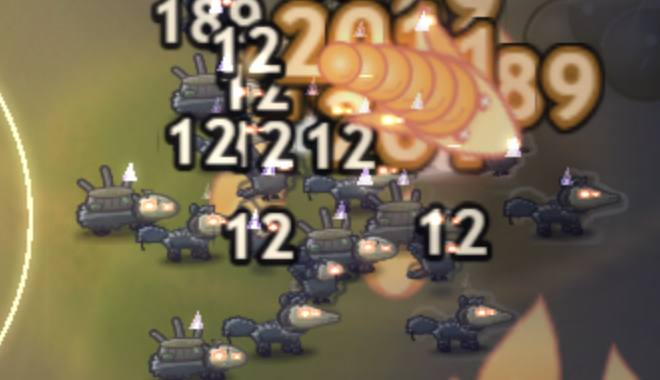
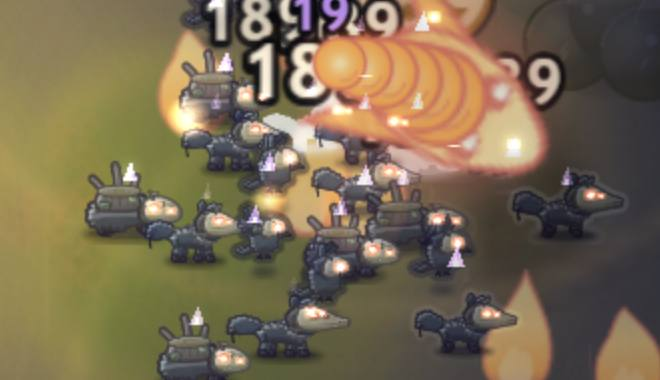
DM5: enlarge Wyrm head (1.4x) and body, clearer eyes (art only)

diff --git a/src/gfx/meteorfx.js b/src/gfx/meteorfx.js
@@ -111,7 +111,7 @@ export function bakeAtlas(c) { // c = a 2D context 288 x 208
   c.beginPath(); c.moveTo(x + 7, y + 20); c.bezierCurveTo(x + 7, y + 8, x + 24, y + 6, x + 36, y + 13); c.bezierCurveTo(x + 45, y + 17, x + 45, y + 23, x + 36, y + 27); c.bezierCurveTo(x + 24, y + 34, x + 7, y + 32, x + 7, y + 20); c.closePath();
   const hg = c.createLinearGradient(x + 7, y, x + 45, y); hg.addColorStop(0, 'rgba(255,200,120,1)'); hg.addColorStop(0.55, 'rgba(255,226,160,1)'); hg.addColorStop(1, 'rgba(255,241,194,1)');
   c.fillStyle = hg; c.fill(); c.strokeStyle = 'rgba(224,122,107,0.9)'; c.lineWidth = 1.4; c.stroke();
-  for (const sg of [-1, 1]) { c.fillStyle = 'rgba(224,122,107,0.95)'; c.beginPath(); c.arc(x + 29, y + 20 + sg * 5, 2.4, 0, 6.2832); c.fill(); c.fillStyle = 'rgba(255,255,240,1)'; c.beginPath(); c.arc(x + 29.6, y + 19.4 + sg * 5, 1.1, 0, 6.2832); c.fill(); }
+  for (const sg of [-1, 1]) { c.fillStyle = 'rgba(224,122,107,0.95)'; c.beginPath(); c.arc(x + 29, y + 20 + sg * 5.5, 3.3, 0, 6.2832); c.fill(); c.fillStyle = 'rgba(255,255,240,1)'; c.beginPath(); c.arc(x + 30, y + 19.2 + sg * 5.5, 1.6, 0, 6.2832); c.fill(); }
   [x, y] = at('bmark'); // DM6 Cinder Brand mark: a small gold ember-drop with a rose rim and a pale core (one clear glyph, readable at 640x360)
   c.beginPath(); c.moveTo(x + 8, y + 1); c.quadraticCurveTo(x + 8.6, y + 7.4, x + 15, y + 8); c.quadraticCurveTo(x + 8.6, y + 8.6, x + 8, y + 15); c.quadraticCurveTo(x + 7.4, y + 8.6, x + 1, y + 8); c.quadraticCurveTo(x + 7.4, y + 7.4, x + 8, y + 1); c.closePath(); // a four-pointed ember star (not a teardrop, so it never reads as a ground flame tongue)
   c.fillStyle = rg(c, x + 8, y + 8, 7, [[0, 'rgba(255,255,236,1)'], [0.5, 'rgba(255,220,140,1)'], [1, 'rgba(255,179,92,1)']]); c.fill(); c.strokeStyle = 'rgba(224,122,107,0.95)'; c.lineWidth = 1.1; c.stroke();
@@ -222,12 +222,12 @@ export class MeteorLayer {
         if (sx < c.vx0 - 40 || sx > c.vx1 + 40 || sy < c.vy0 - 40 || sy > c.vy1 + 40) continue;
         const sc = i === 0 ? 1 : 0.8 - 0.4 * (i / (n - 1)), dd = dF - 9 - (n - i) * 0.01;
         if (!caps.flat) sGlA.put('glow', sx, sy - 7, dd - 3, 0.5 * sc + 0.15, 0.5 * sc + 0.15, 0.3 * k, 0, COL.amber);
-        if (i > 0) this.sFxN.put('wseg', sx, sy - 7, dd, 0.9 * sc, 0.9 * sc, k);
+        if (i > 0) this.sFxN.put('wseg', sx, sy - 7, dd, 1.1 * sc, 1.1 * sc, k);
       }
       { const hx = wy.seg[0], hy = wy.seg[1], nx = wy.seg[2], ny = wy.seg[3];
         if (Number.isFinite(hx) && Number.isFinite(hy) && hx >= c.vx0 - 40 && hx <= c.vx1 + 40 && hy >= c.vy0 - 40 && hy <= c.vy1 + 40) {
           const ang = Number.isFinite(nx) && Number.isFinite(ny) ? Math.atan2(hy - ny, hx - nx) : 0;
-          this.sFxN.put('whead', hx, hy - 7, dF - 9.5, 0.8, 0.8, k, ang);
+          this.sFxN.put('whead', hx, hy - 8, dF - 9.5, 1.12, 1.12, k, ang);
           if (lm && !caps.flat) lm.add(hx, hy - 7, 46, COL.amber, 0.45 * k);
         } }
       if (caps.wrate > 0 && c.parts && wy.on) { // spark trail: a few embers shed from the body, one per tick, picked by a counter (no random draws)
